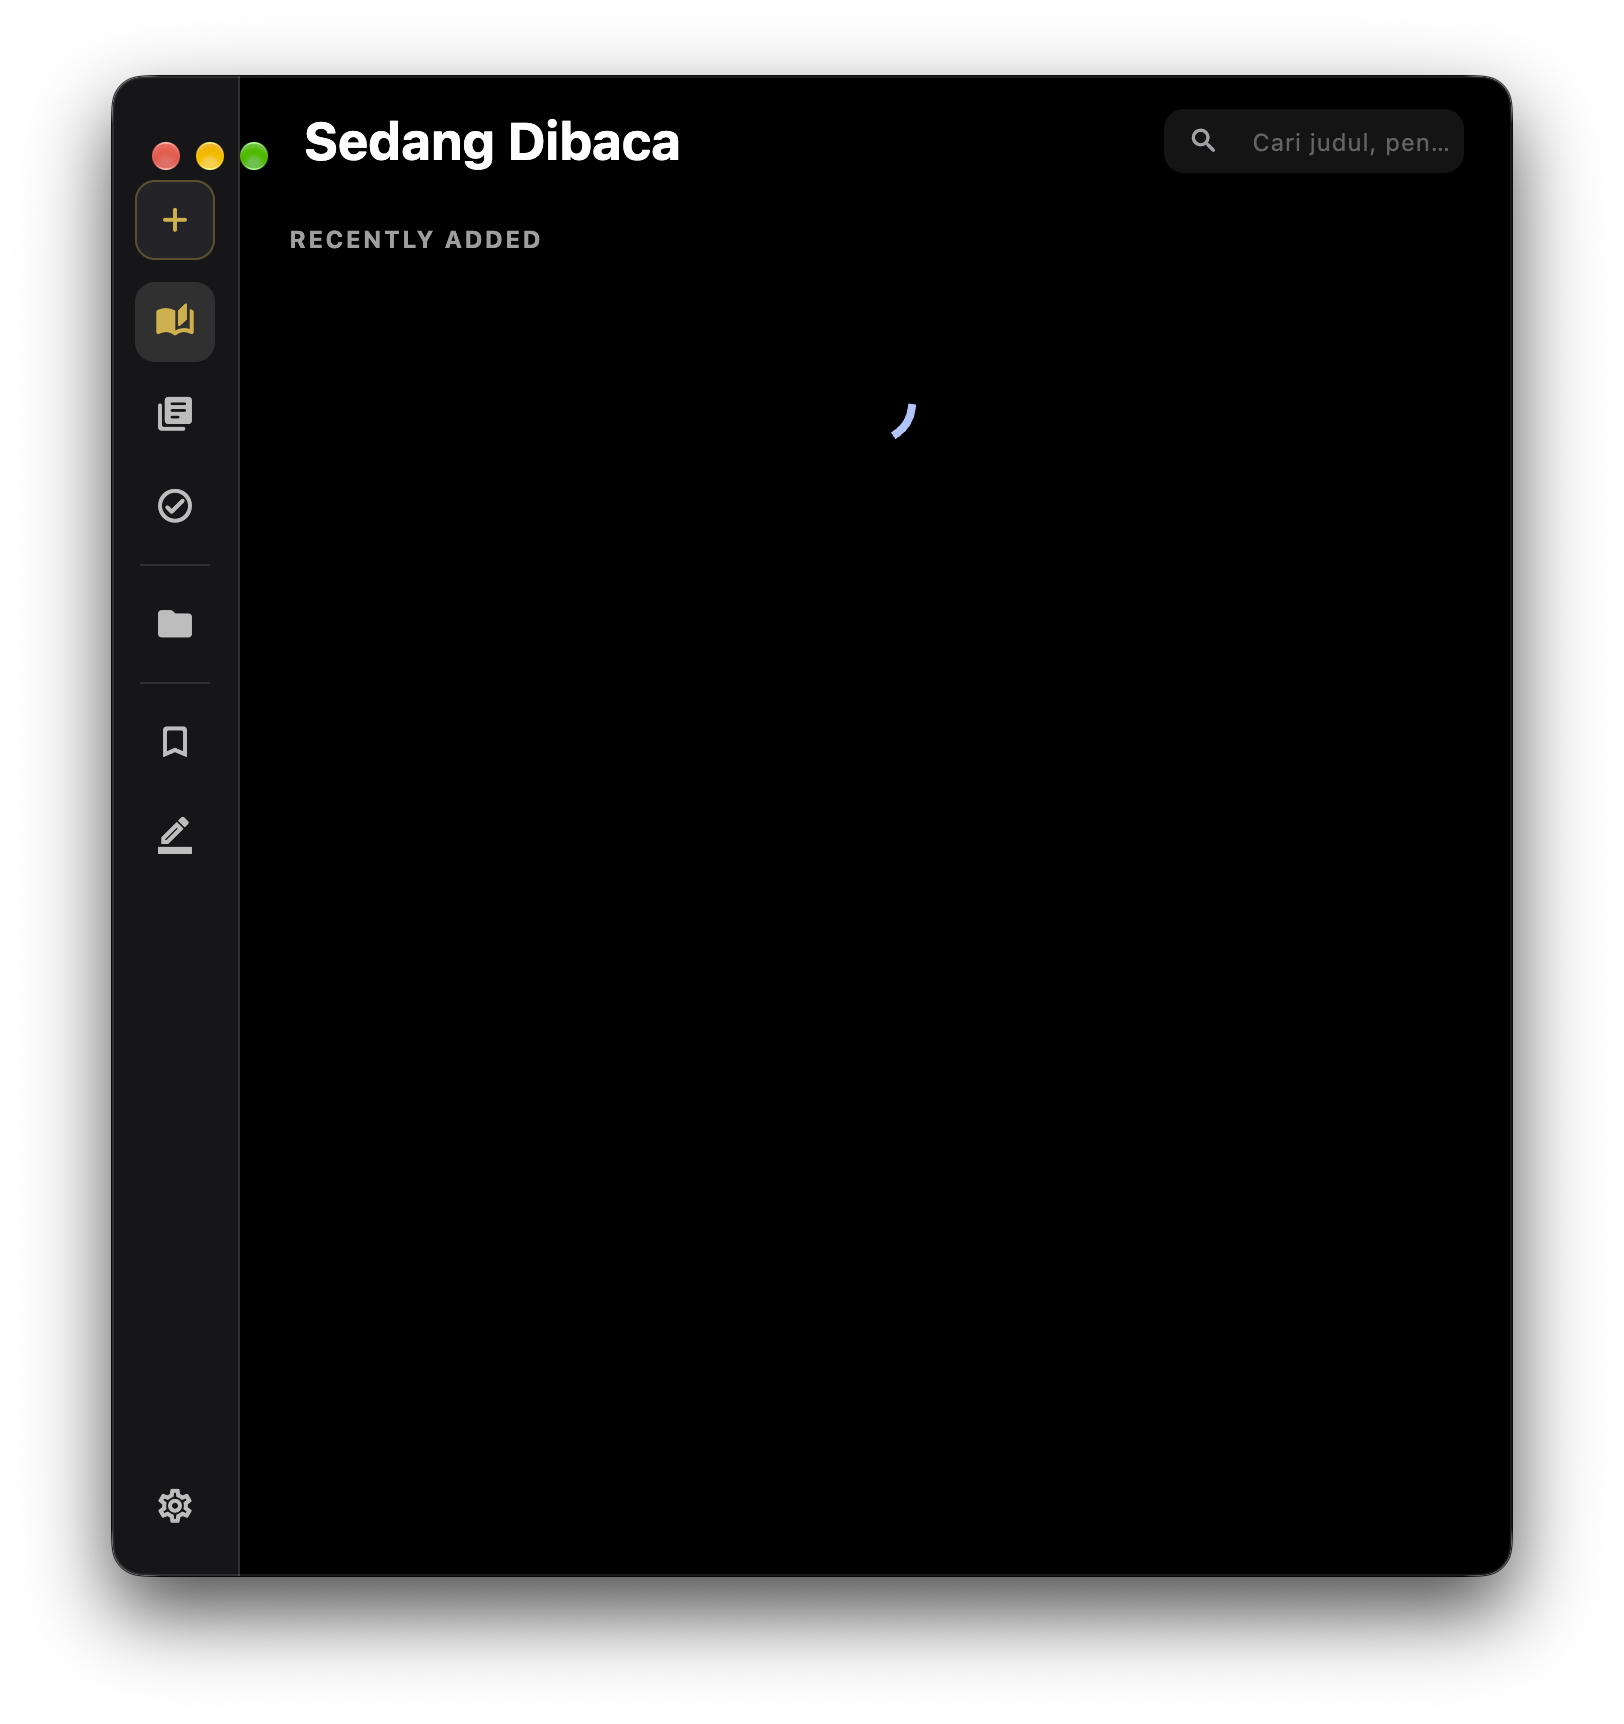
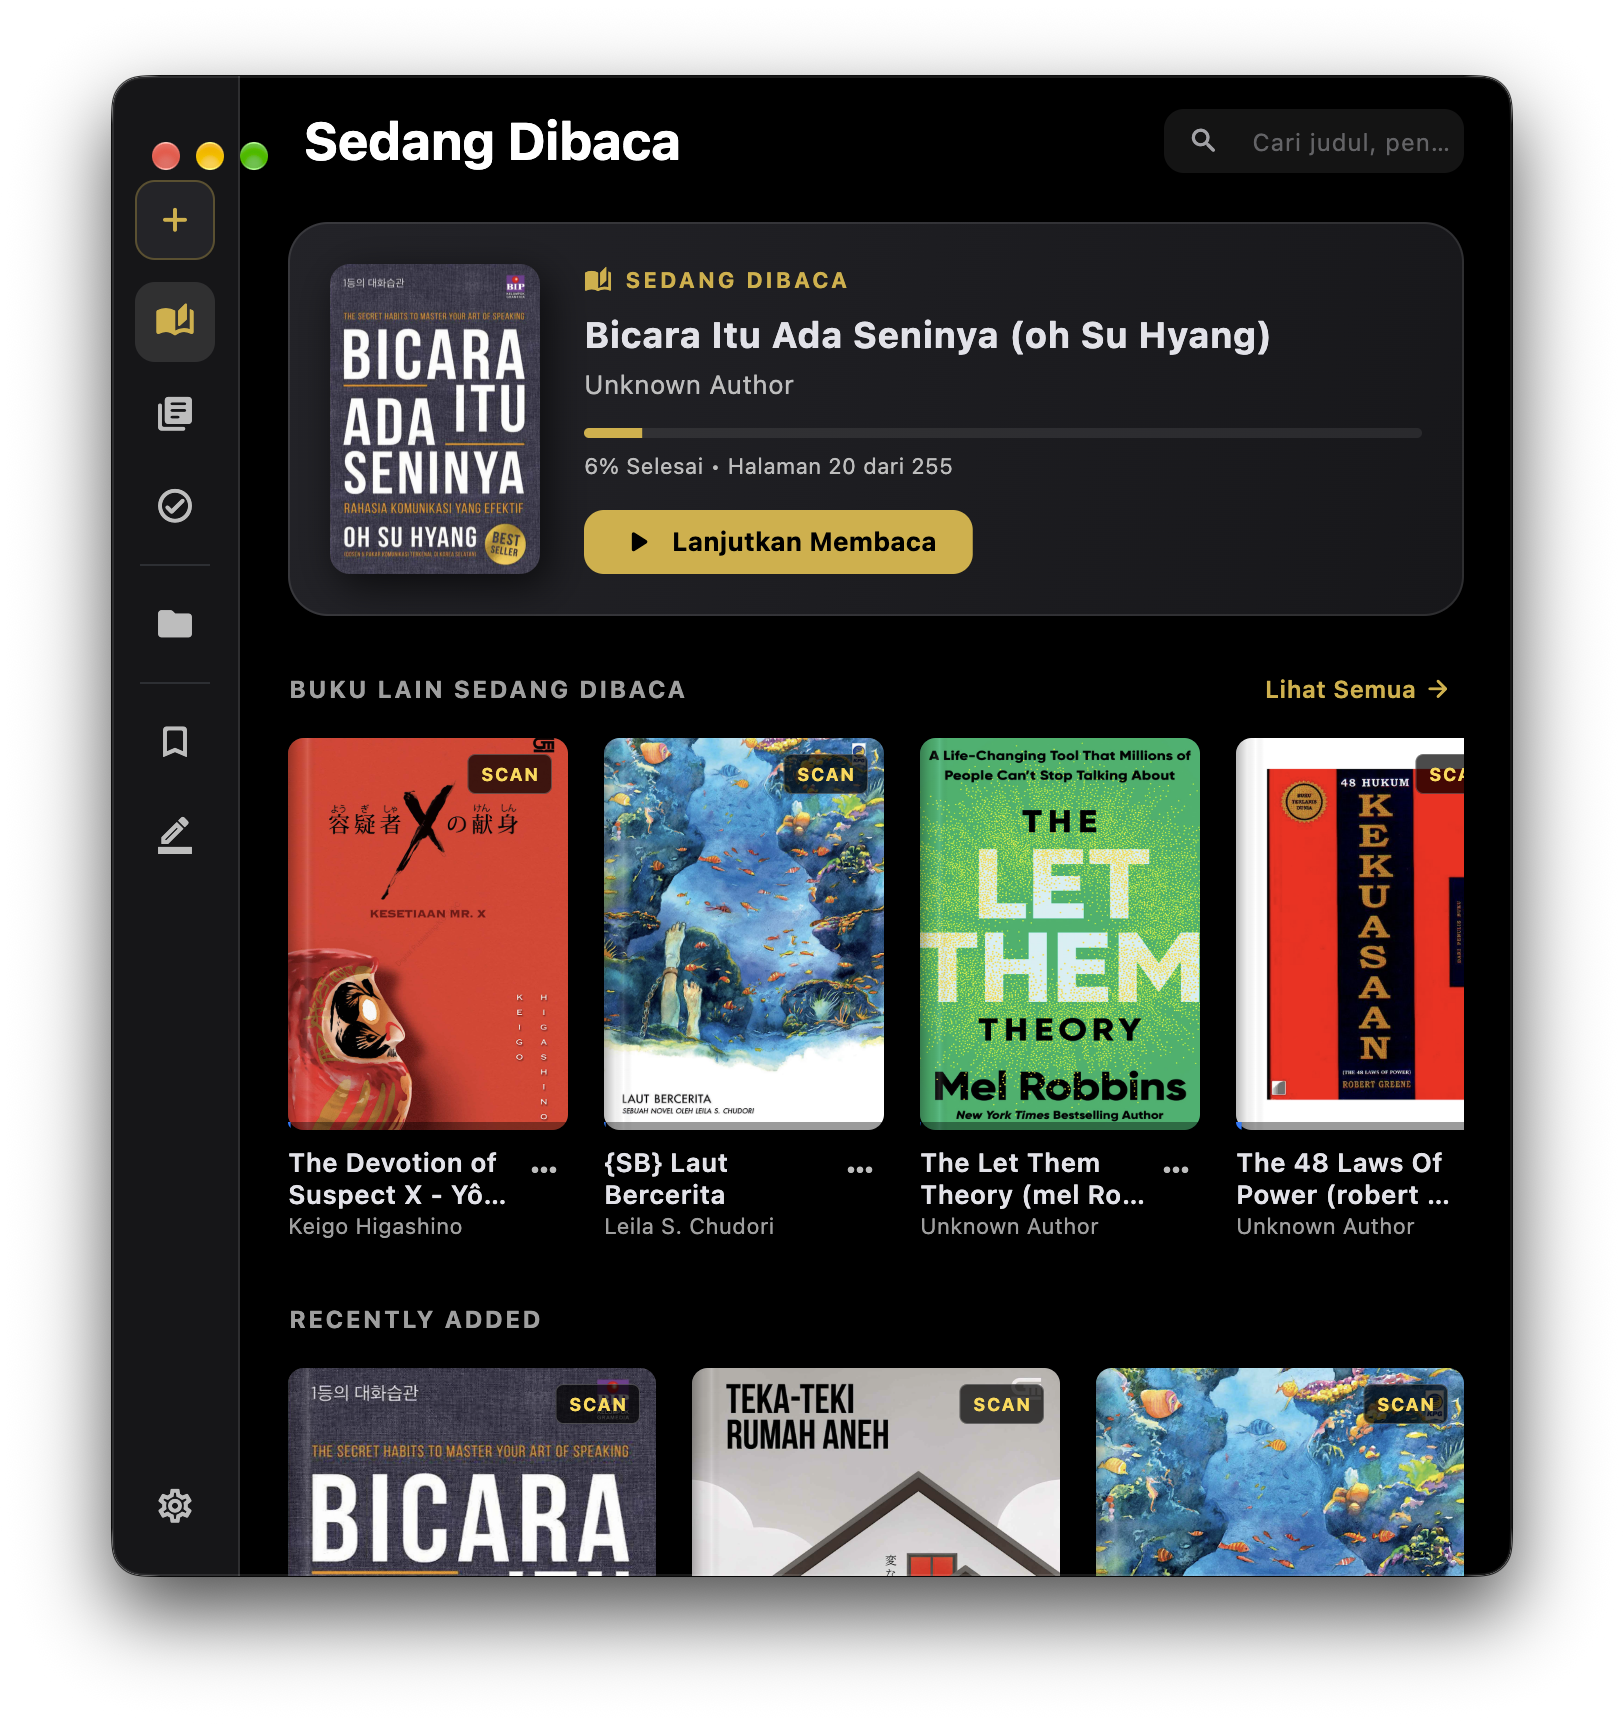
Version 1.1.0-alpha.8+9 chore(ui): regenerate clean native macOS screenshots without file dialog (Phase 2 native)

diff --git a/tools/capture_native_windows.swift b/tools/capture_native_windows.swift
@@ -1,26 +1,11 @@
 import Cocoa
 
-func clickAt(x: CGFloat, y: CGFloat) {
-    let pt = CGPoint(x: x, y: y)
-    let down = CGEvent(mouseEventSource: nil, mouseType: .leftMouseDown, mouseCursorPosition: pt, mouseButton: .left)
-    let up = CGEvent(mouseEventSource: nil, mouseType: .leftMouseUp, mouseCursorPosition: pt, mouseButton: .left)
-    down?.post(tap: .cghidEventTap)
-    usleep(80000)
-    up?.post(tap: .cghidEventTap)
-    usleep(400000)
-}
-
-func getWindowInfo() -> (id: Int, x: CGFloat, y: CGFloat, w: CGFloat, h: CGFloat)? {
+func getWindowId() -> Int? {
     guard let list = CGWindowListCopyWindowInfo(.optionOnScreenOnly, kCGNullWindowID) as? [[String: Any]] else { return nil }
     for w in list {
         if let owner = w[kCGWindowOwnerName as String] as? String, owner == "Digital Books" {
-            if let id = w[kCGWindowNumber as String] as? Int,
-               let bounds = w[kCGWindowBounds as String] as? [String: Any],
-               let x = bounds["X"] as? CGFloat,
-               let y = bounds["Y"] as? CGFloat,
-               let width = bounds["Width"] as? CGFloat,
-               let height = bounds["Height"] as? CGFloat {
-                return (id, x, y, width, height)
+            if let id = w[kCGWindowNumber as String] as? Int {
+                return id
             }
         }
     }
@@ -49,7 +34,11 @@ func setWindow(x: Int, y: Int, w: Int, h: Int) {
     usleep(500000)
 }
 
-func capture(id: Int, toPath: String) {
+func captureWindow(toPath: String) {
+    guard let id = getWindowId() else {
+        print("Error: Could not find Digital Books window ID")
+        return
+    }
     let task = Process()
     task.executableURL = URL(fileURLWithPath: "/usr/sbin/screencapture")
     task.arguments = ["-l\(id)", toPath]
@@ -57,52 +46,65 @@ func capture(id: Int, toPath: String) {
     task.waitUntilExit()
 }
 
+func launchApp(section: String) -> Process {
+    // Kill any existing instances first
+    let killTask = Process()
+    killTask.executableURL = URL(fileURLWithPath: "/usr/bin/pkill")
+    killTask.arguments = ["-9", "-f", "Digital Books"]
+    try? killTask.run()
+    killTask.waitUntilExit()
+    usleep(300000)
+
+    let task = Process()
+    task.executableURL = URL(fileURLWithPath: "/Users/davindalana/Documents/Project/Digital Books/build/macos/Build/Products/Debug/Digital Books.app/Contents/MacOS/Digital Books")
+    var env = ProcessInfo.processInfo.environment
+    env["DIGITAL_BOOKS_SECTION"] = section
+    task.environment = env
+    try? task.run()
+    usleep(1400000) // Wait for Flutter engine & window to initialize
+    return task
+}
+
+let outputDir = "/Users/davindalana/Documents/Project/Digital Books/docs/visual_evidence/phase_2_native"
+try? FileManager.default.createDirectory(atPath: outputDir, withIntermediateDirectories: true)
+
 let winX = 100
 let winY = 100
 
-print("Setting up directory...")
-let fileManager = FileManager.default
-let outputDir = "/Users/davindalana/Documents/Project/Digital Books/docs/visual_evidence/phase_2_native"
-try? fileManager.createDirectory(atPath: outputDir, withIntermediateDirectories: true)
+print("=== CAPTURING SEDANG DIBACA (HOME) ===")
+var app = launchApp(section: "home")
 
-// 1. Compact (700)
-print("1. Capturing Compact 700...")
+print("1. Compact 700...")
 setWindow(x: winX, y: winY, w: 700, h: 750)
-if let info = getWindowInfo() {
-    // Click Sedang Dibaca in compact rail (X ~ 32, Y ~ 75)
-    clickAt(x: CGFloat(winX) + 32, y: CGFloat(winY) + 75)
-    capture(id: info.id, toPath: "\(outputDir)/01_native_compact_700_sedang_dibaca.png")
-    
-    // Click Semua Buku in compact rail (X ~ 32, Y ~ 120)
-    clickAt(x: CGFloat(winX) + 32, y: CGFloat(winY) + 120)
-    capture(id: info.id, toPath: "\(outputDir)/02_native_compact_700_semua_buku.png")
-}
+captureWindow(toPath: "\(outputDir)/01_native_compact_700_sedang_dibaca.png")
 
-// 2. Standard (900)
-print("2. Capturing Standard 900...")
+print("2. Standard 900...")
 setWindow(x: winX, y: winY, w: 900, h: 750)
-if let info = getWindowInfo() {
-    // Click Sedang Dibaca in standard sidebar (X ~ 100, Y ~ 145)
-    clickAt(x: CGFloat(winX) + 100, y: CGFloat(winY) + 145)
-    capture(id: info.id, toPath: "\(outputDir)/03_native_standard_900_sedang_dibaca.png")
-    
-    // Click Semua Buku in standard sidebar (X ~ 100, Y ~ 185)
-    clickAt(x: CGFloat(winX) + 100, y: CGFloat(winY) + 185)
-    capture(id: info.id, toPath: "\(outputDir)/04_native_standard_900_semua_buku.png")
-}
+captureWindow(toPath: "\(outputDir)/03_native_standard_900_sedang_dibaca.png")
 
-// 3. Expansive (1280)
-print("3. Capturing Expansive 1280...")
+print("3. Expansive 1280...")
 setWindow(x: winX, y: winY, w: 1280, h: 800)
-if let info = getWindowInfo() {
-    // Click Sedang Dibaca in expansive sidebar (X ~ 100, Y ~ 145)
-    clickAt(x: CGFloat(winX) + 100, y: CGFloat(winY) + 145)
-    capture(id: info.id, toPath: "\(outputDir)/05_native_expansive_1280_sedang_dibaca.png")
-    
-    // Click Semua Buku in expansive sidebar (X ~ 100, Y ~ 185)
-    clickAt(x: CGFloat(winX) + 100, y: CGFloat(winY) + 185)
-    capture(id: info.id, toPath: "\(outputDir)/06_native_expansive_1280_semua_buku.png")
-}
+captureWindow(toPath: "\(outputDir)/05_native_expansive_1280_sedang_dibaca.png")
 
-print("Done! Captured all 6 native screenshots.")
+app.terminate()
+usleep(500000)
 
+print("\n=== CAPTURING SEMUA BUKU ===")
+app = launchApp(section: "allBooks")
+
+print("4. Compact 700...")
+setWindow(x: winX, y: winY, w: 700, h: 750)
+captureWindow(toPath: "\(outputDir)/02_native_compact_700_semua_buku.png")
+
+print("5. Standard 900...")
+setWindow(x: winX, y: winY, w: 900, h: 750)
+captureWindow(toPath: "\(outputDir)/04_native_standard_900_semua_buku.png")
+
+print("6. Expansive 1280...")
+setWindow(x: winX, y: winY, w: 1280, h: 800)
+captureWindow(toPath: "\(outputDir)/06_native_expansive_1280_semua_buku.png")
+
+app.terminate()
+usleep(300000)
+
+print("\nAll 6 native macOS window screenshots successfully captured!")

diff --git a/lib/features/library/presentation/screens/library_screen.dart b/lib/features/library/presentation/screens/library_screen.dart
@@ -42,19 +42,30 @@ enum LibraryNavigationSection {
 }
 
 class LibraryScreen extends ConsumerStatefulWidget {
-  const LibraryScreen({super.key});
+  final LibraryNavigationSection initialSection;
+  const LibraryScreen({
+    super.key,
+    this.initialSection = LibraryNavigationSection.home,
+  });
 
   @override
   ConsumerState<LibraryScreen> createState() => _LibraryScreenState();
 }
 
 class _LibraryScreenState extends ConsumerState<LibraryScreen> {
-  LibraryNavigationSection _selectedSection = LibraryNavigationSection.home;
-  LibraryNavigationSection _previousSection = LibraryNavigationSection.home;
+  late LibraryNavigationSection _selectedSection;
+  late LibraryNavigationSection _previousSection;
   String? _selectedCollectionId;
   int _allBooksFilterIndex = 0; // 0 = Semua, 1 = Sedang Dibaca, 2 = Selesai
   final TextEditingController _searchController = TextEditingController();
   final FocusNode _searchFocusNode = FocusNode();
+
+  @override
+  void initState() {
+    super.initState();
+    _selectedSection = widget.initialSection;
+    _previousSection = widget.initialSection;
+  }
 
   @override
   void dispose() {
@@ -81,8 +92,28 @@ class _LibraryScreenState extends ConsumerState<LibraryScreen> {
             _focusSearch,
         const SingleActivator(LogicalKeyboardKey.keyF, meta: true):
             _focusSearch,
+        const SingleActivator(LogicalKeyboardKey.digit1, meta: true): () {
+          setState(() {
+            _selectedSection = LibraryNavigationSection.home;
+            _selectedCollectionId = null;
+          });
+        },
+        const SingleActivator(LogicalKeyboardKey.digit2, meta: true): () {
+          setState(() {
+            _selectedSection = LibraryNavigationSection.allBooks;
+            _selectedCollectionId = null;
+          });
+        },
+        const SingleActivator(LogicalKeyboardKey.digit3, meta: true): () {
+          setState(() {
+            _selectedSection = LibraryNavigationSection.finished;
+            _selectedCollectionId = null;
+          });
+        },
       },
-      child: LayoutBuilder(
+      child: Focus(
+        autofocus: true,
+        child: LayoutBuilder(
         builder: (context, constraints) {
           final width = constraints.maxWidth;
           final isExpansive = width >= AppThemeTokens.breakpointExpansive;
@@ -132,7 +163,8 @@ class _LibraryScreenState extends ConsumerState<LibraryScreen> {
           );
         },
       ),
-    );
+    ),
+  );
   }
 
   // --- 1. Compact Icon Rail (width < 760pt) ---

diff --git a/lib/main.dart b/lib/main.dart
@@ -4,7 +4,7 @@ import 'package:flutter/material.dart';
 import 'package:flutter_riverpod/flutter_riverpod.dart';
 import 'features/library/presentation/screens/library_screen.dart';
 
-void main() {
+void main(List<String> args) {
   WidgetsFlutterBinding.ensureInitialized();
 
   FlutterError.onError = (FlutterErrorDetails details) {
@@ -27,11 +27,20 @@ void main() {
     return true;
   };
 
-  runApp(const ProviderScope(child: DigitalBooksApp()));
+  final initialSection = args.contains('--semua-buku') ||
+          Platform.environment['DIGITAL_BOOKS_SECTION'] == 'allBooks'
+      ? LibraryNavigationSection.allBooks
+      : LibraryNavigationSection.home;
+
+  runApp(ProviderScope(child: DigitalBooksApp(initialSection: initialSection)));
 }
 
 class DigitalBooksApp extends StatelessWidget {
-  const DigitalBooksApp({super.key});
+  final LibraryNavigationSection initialSection;
+  const DigitalBooksApp({
+    super.key,
+    this.initialSection = LibraryNavigationSection.home,
+  });
 
   @override
   Widget build(BuildContext context) {
@@ -68,7 +77,7 @@ class DigitalBooksApp extends StatelessWidget {
         ),
         useMaterial3: true,
       ),
-      home: const LibraryScreen(),
+      home: LibraryScreen(initialSection: initialSection),
     );
   }
 }
